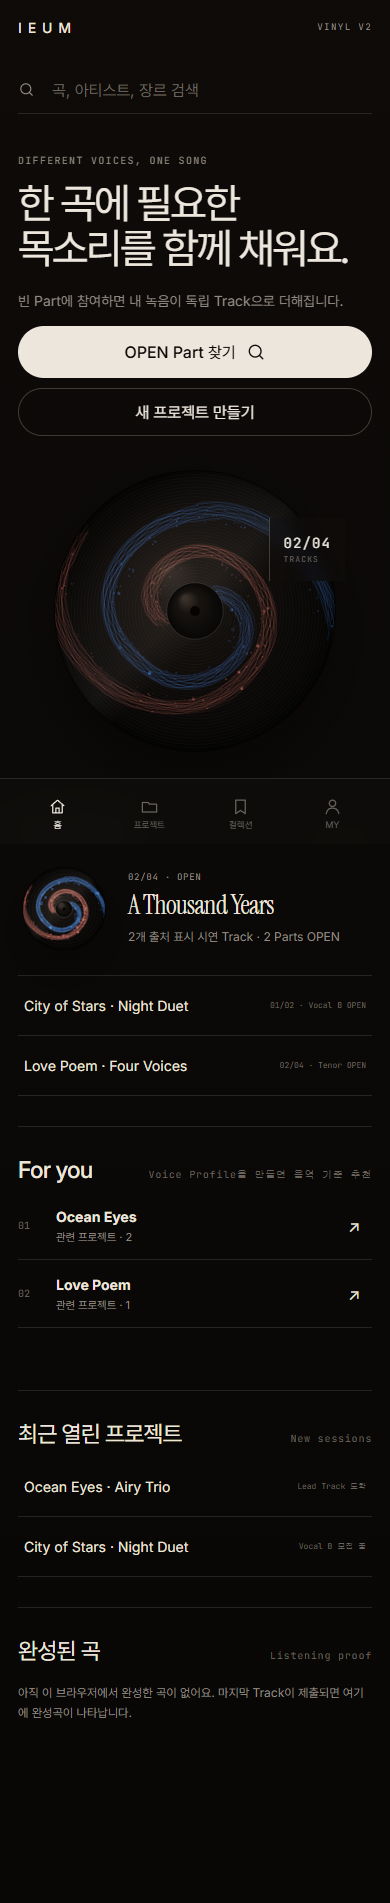
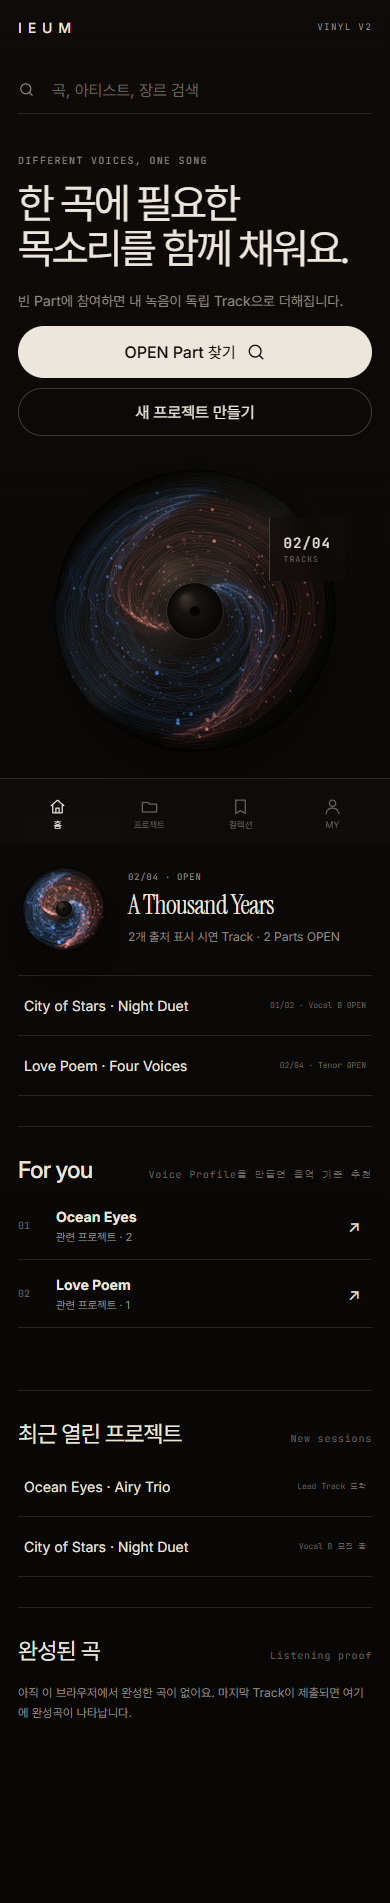
Rebuild resonance record voice field

diff --git a/src/App.jsx b/src/App.jsx
@@ -198,7 +198,7 @@ function ResonanceRecord({ active = [true, false, true, false], layers = [], act
       const x = Math.sin(value * 12.9898 + numericSeed * 0.0147) * 43758.5453
       return x - Math.floor(x)
     }
-    const colors = ['59,130,246','241,111,97','214,184,149','46,182,173']
+    const colors = ['62,137,255','255,121,103','232,197,153','67,199,190']
     const draw = (now = 0) => {
       if (now && now - lastPaint < 32) { raf = requestAnimationFrame(draw); return }
       if (now) lastPaint = now
@@ -222,42 +222,67 @@ function ResonanceRecord({ active = [true, false, true, false], layers = [], act
         const layer = storedLayer || { seed:numericSeed + voice * 997, baseRadius:[.72,.59,.48,.35][voice], spread:.08, turbulence:1, filamentCount:12, particleCount:58, opacity:.28, phase:voice }
         const liveLevel = levelRef.current
         const energy = isLive ? .72 + liveLevel * .9 : state === 'playing' ? .82 : state === 'complete' ? .76 : .64
-        const lineCount = Math.max(9,Math.min(20,layer.filamentCount||12))
+        const lineCount = Math.max(18,Math.min(34,(layer.filamentCount||12)*1.55))
         const rotation = frame * (voice % 2 ? -.00019 : .00016)
+        const envelopeAt=t=>layer.envelope?.[Math.min((layer.envelope?.length||1)-1,Math.floor(t*(layer.envelope?.length||1)))]||.35
+        const flowPoint=(t,band=0,flutter=0,branch=0)=>{
+          const envelope=envelopeAt(t)
+          const voicePhase=(layer.phase||0)+voice*.39
+          const curl=Math.sin(t*Math.PI*2.35+voicePhase)*(.18+(layer.turbulence||.7)*.05)
+          const fork=branch*Math.sin(Math.PI*Math.min(1,t*1.12))*(.28+(layer.turbulence||.7)*.06)
+          const angle=voicePhase+t*Math.PI*1.72+curl+fork+rotation+band*.27
+          const width=radius*(.065+(layer.spread||.08)*.68)*(.38+Math.sin(t*Math.PI)*1.02)
+          const breath=isLive?Math.sin(t*Math.PI*9+frame*.055)*liveLevel*radius*.038:0
+          const branchLift=branch*Math.sin(t*Math.PI)*radius*(.075+.025*(layer.turbulence||.7))
+          const rr=radius*(.17+t*.7)+Math.sin(t*Math.PI*1.55+voice*.9)*radius*.105+band*width+branchLift+flutter+breath+envelope*radius*.055
+          return [center+Math.cos(angle)*rr*(1+.06*Math.sin(angle*2.2+voice)),center+Math.sin(angle)*rr]
+        }
         ctx.save()
         ctx.globalCompositeOperation = 'screen'
+        ctx.lineCap='round'
+        for(let haze=0;haze<5;haze++){
+          ctx.beginPath()
+          for(let i=0;i<=72;i++){
+            const t=i/72
+            const branch=haze===1?-.72:haze===3?.72:0
+            const point=flowPoint(t,(haze-2)*.34,Math.sin(t*19+haze+(layer.seed||0)*.0001)*radius*.012,branch)
+            if(!i)ctx.moveTo(point[0],point[1]);else ctx.lineTo(point[0],point[1])
+          }
+          ctx.strokeStyle=`rgba(${colors[voice]},${.012+energy*.012})`
+          ctx.lineWidth=11+haze*3.1
+          ctx.stroke()
+        }
         for (let line = 0; line < lineCount; line++) {
-          const points = 112
-          const lineOffset=(line-lineCount/2)*(.0045+(layer.spread||.08)*.055)
+          const points = 96
+          const band=(line-lineCount/2)/(lineCount/2)
+          const branch=line%5===0?(line%10===0?-.72:.72):0
           ctx.beginPath()
           for (let i = 0; i <= points; i++) {
             const t=i/points
-            const envelope=layer.envelope?.[Math.min((layer.envelope?.length||1)-1,Math.floor(t*(layer.envelope?.length||1)))]||.35
-            const angle=(layer.phase||0)+voice*.62+t*Math.PI*2.28+lineOffset+rotation
-            const breath=isLive?Math.sin(t*Math.PI*8+frame*.055)*liveLevel*radius*.035:0
-            const grain=Math.sin(t*Math.PI*(4.2+(layer.turbulence||.7))+line*.71+(layer.seed||0)*.00004)*radius*(.012+(layer.spread||.08)*.12)
-            const rr=radius*(.16+t*.76)+Math.sin(t*Math.PI*2+voice)*radius*.07+grain+breath+envelope*radius*.03
-            const x=center+Math.cos(angle)*rr*(1+.055*Math.sin(angle*2.1+voice))
-            const y=center+Math.sin(angle)*rr
-            if (!i) ctx.moveTo(x, y); else ctx.lineTo(x, y)
+            const grain=Math.sin(t*Math.PI*(7+(layer.turbulence||.7)*2)+line*.83+(layer.seed||0)*.00004)*radius*(.004+(layer.turbulence||.7)*.006)
+            const point=flowPoint(t,band,grain,branch)
+            if (!i) ctx.moveTo(point[0],point[1]); else ctx.lineTo(point[0],point[1])
           }
-          ctx.strokeStyle=`rgba(${colors[voice]},${(.065+(layer.opacity||.3)*.2+energy*.05)*(1-Math.abs(line-lineCount/2)/lineCount*.48)})`
-          ctx.lineWidth=.38+(line%4)*.18
+          ctx.strokeStyle=`rgba(${colors[voice]},${(.052+(layer.opacity||.3)*.15+energy*.045)*(1-Math.abs(band)*.55)})`
+          ctx.lineWidth=.4+(line%5)*.15
           ctx.stroke()
         }
         const density = compact ? .62 : 1
-        const particles = Math.round(Math.min(380,Math.max(170,(layer.particleCount||58)*3.4))*density)
+        const particles = Math.round(Math.min(760,Math.max(420,(layer.particleCount||58)*6.8))*density)
         for (let p = 0; p < particles; p++) {
           const t=random(p*17+voice*401+(layer.seed||0))
-          const scatter=(random(p*31+(layer.seed||0))-.5)*radius*(.025+(layer.spread||.08)*.42)
-          const angle=(layer.phase||0)+voice*.62+t*Math.PI*2.28+rotation+(random(p*11+voice)-.5)*.22
-          const rr=radius*(.16+t*.76)+Math.sin(t*Math.PI*2+voice)*radius*.07+scatter
-          const alpha=(.14+random(p+numericSeed+(layer.seed||0))*.58)*energy*(.48+t*.52)
-          const dot=.35+random(p*13)*1.25
+          const band=(random(p*31+(layer.seed||0))-.5)*2
+          const branchRoll=random(p*47+(layer.seed||0)+voice*29)
+          const branch=branchRoll>.79?.72:branchRoll<.18?-.72:0
+          const flutter=(random(p*11+voice)-.5)*radius*(.018+(layer.turbulence||.7)*.018)
+          const point=flowPoint(t,band,flutter,branch)
+          const envelope=envelopeAt(t)
+          const alpha=(.12+random(p+numericSeed+(layer.seed||0))*.7)*energy*(.44+envelope*.76)*(1-Math.abs(band)*.34)
+          const dot=.38+random(p*13)*1.65
           ctx.fillStyle = `rgba(${colors[voice]},${alpha})`
-          ctx.fillRect(center + Math.cos(angle) * rr, center + Math.sin(angle) * rr, dot, dot)
-          if (p % 23 === 0) {
-            ctx.beginPath(); ctx.arc(center+Math.cos(angle)*rr,center+Math.sin(angle)*rr,.8+random(p*19)*1.2,0,Math.PI*2)
+          ctx.fillRect(point[0],point[1],dot,dot)
+          if (p % 19 === 0) {
+            ctx.beginPath();ctx.arc(point[0],point[1],.75+random(p*19)*1.35,0,Math.PI*2)
             ctx.fillStyle=`rgba(${colors[voice]},${Math.min(.7,alpha*1.45)})`;ctx.fill()
           }
         }
